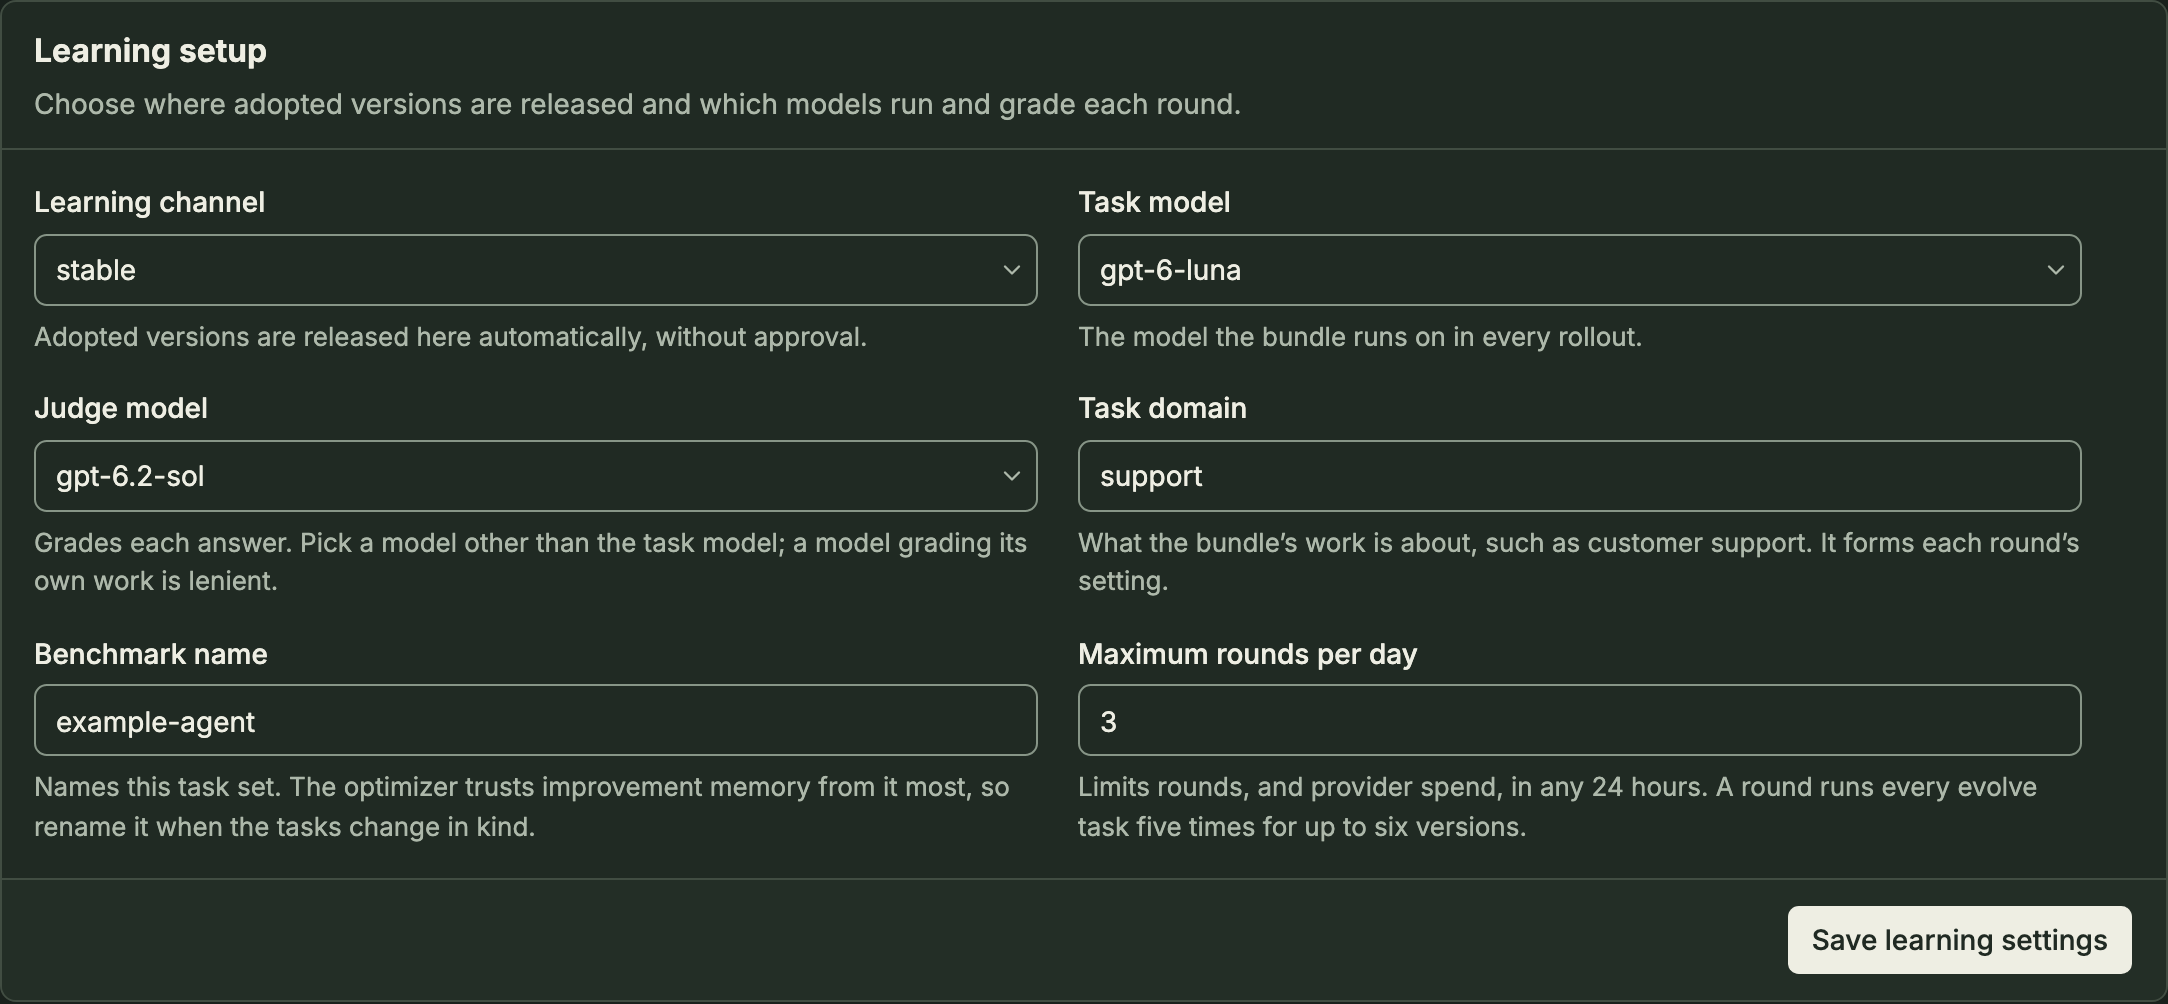
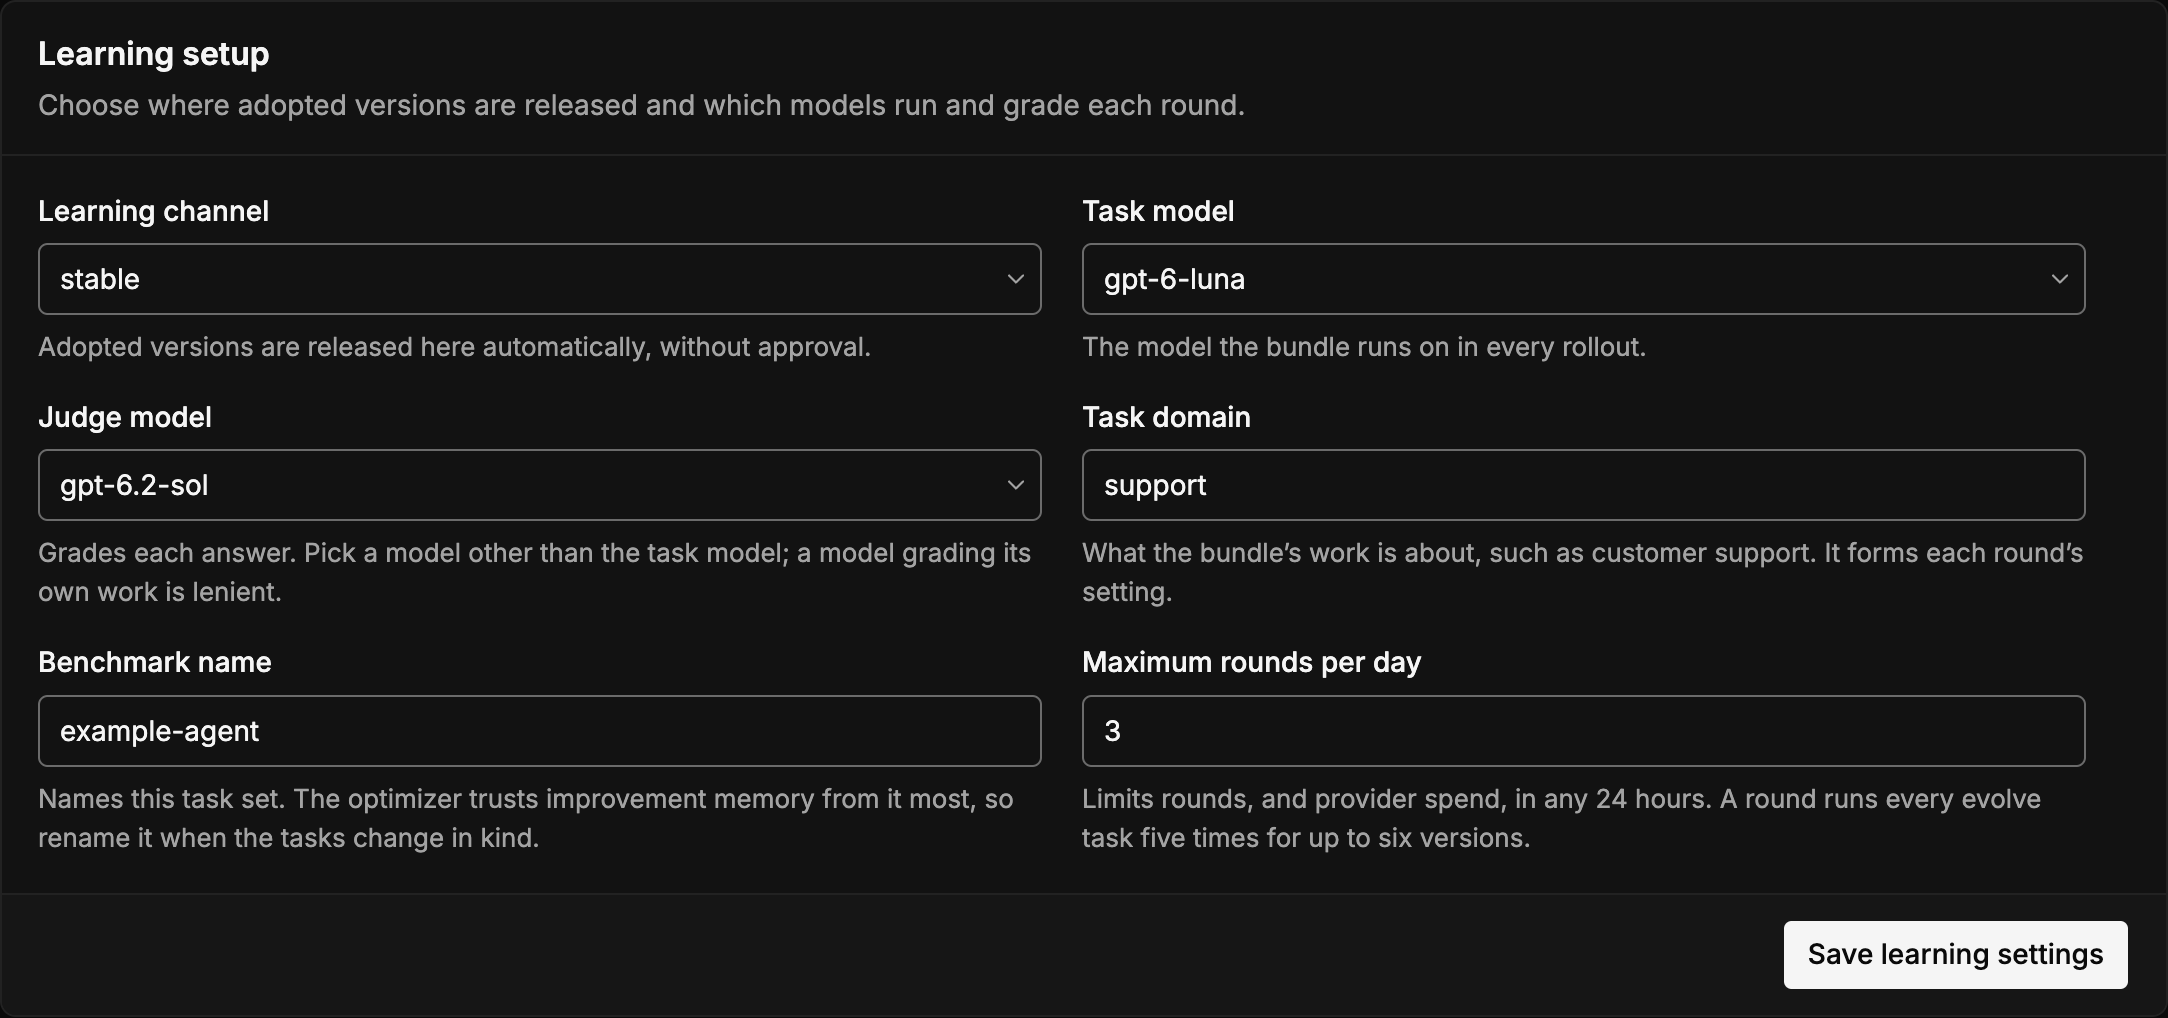
Update docs screenshots, README assets, and remove Paste conversations
Regenerate all 14 console doc screenshots in apps/docs/public/screenshots (light and dark) and the README hero climb screenshots and brand marks in .github/assets to reflect the Pure Swiss Precision UI and post-#41 copy.

Remove the Paste conversations textarea from the Import material panel (apps/console/src/components/learning-tasks.tsx, apps/console/src/lib/task-review.ts, apps/docs/content/docs/guides/learning-loop.mdx).

diff --git a/apps/console/src/components/learning-tasks.tsx b/apps/console/src/components/learning-tasks.tsx
@@ -38,8 +38,6 @@ import {
   linkedTask,
   needsConfirmation as awaitsConfirmation,
   pageSize,
-  pasteHelp,
-  pasteLabel,
   recheckQueued,
   recheckSummary,
   scoreText,
@@ -66,8 +64,6 @@ const codeBlock =
   'rounded-md border bg-muted/40 px-3 py-2 font-mono text-[13px] leading-relaxed whitespace-pre-wrap break-words';
 const sectionLabel = 'text-xs font-medium text-muted-foreground';
 const maxImportBytes = 64 * 1024 * 1024;
-const pastePlaceholder =
-  'Customer: Can I pause my subscription?\nAgent: Yes, for up to three months.\n---\nCustomer: How do I export my data?\nAgent: Open Settings, then Exports.';
 
 function admissionBadge(card: TaskCard): { label: string; tone: StatusTone } {
   if (awaitsConfirmation(card)) return { label: 'Needs your confirmation', tone: 'warning' };
@@ -513,18 +509,15 @@ function ImportMaterial({
           const form = e.currentTarget;
           const data = new FormData(form);
           const file = data.get('file') as File;
-          const paste = String(data.get('paste')).trim();
+          if (!file?.size) {
+            report('Choose a file to import.');
+            return;
+          }
           if (file.size > maxImportBytes) {
             report('Imports must fit in 64 MiB.');
             return;
           }
-          if (Boolean(file?.size) === Boolean(paste)) {
-            report('Choose a file or paste conversations, not both.');
-            return;
-          }
-          const format = file?.size
-            ? mediaTypes[file.name.split('.').at(-1)!.toLowerCase()]
-            : 'text/plain';
+          const format = mediaTypes[file.name.split('.').at(-1)!.toLowerCase()];
           if (!format) {
             report('Choose an XLSX, CSV, JSONL or text file.');
             return;
@@ -534,12 +527,12 @@ function ImportMaterial({
             report('');
             const params = new URLSearchParams({
               ...scope,
-              filename: file.size ? file.name : 'conversations.txt',
+              filename: file.name,
             });
             const response = await fetch('/learning-import?' + params, {
               method: 'POST',
               headers: { 'content-type': format },
-              body: file.size ? file : paste,
+              body: file,
             });
             if (!response.ok)
               throw Error(
@@ -568,15 +561,6 @@ function ImportMaterial({
             describedBy="learning-file-hint"
             fileName={fileName}
             onFileName={setFileName}
-          />
-        </Field>
-        <Field label={pasteLabel} htmlFor="learning-paste" hint={pasteHelp}>
-          <Textarea
-            id="learning-paste"
-            name="paste"
-            className="min-h-28 font-mono text-sm"
-            placeholder={pastePlaceholder}
-            aria-describedby="learning-paste-hint"
           />
         </Field>
       </form>

diff --git a/apps/console/src/lib/task-review.ts b/apps/console/src/lib/task-review.ts
@@ -118,6 +118,3 @@ export function describeImportReason(reason: string) {
 export function describeAdmissionReason(reason: string) {
   return describeLearning(reason);
 }
-
-export const pasteLabel = 'Paste conversations';
-export const pasteHelp = 'Put a line with only --- between conversations. Each one becomes a task.';

diff --git a/README.md b/README.md
@@ -14,9 +14,9 @@ Acclimate versions your AI agent's instructions, skills and memory, delivers eac
 [Documentation](https://acclimate.anveld.dev/docs) · [Quickstart](https://acclimate.anveld.dev/docs/get-started/quickstart) · [Self-host](https://acclimate.anveld.dev/docs/operate/self-host) · [Examples](examples/README.md) · [Changelog](CHANGELOG.md)
 
 [![CI](https://github.com/anveld-dev/acclimate/actions/workflows/ci.yaml/badge.svg?branch=main)](https://github.com/anveld-dev/acclimate/actions/workflows/ci.yaml)
-[![Release](https://img.shields.io/github/v/release/anveld-dev/acclimate?color=1f4a35)](https://github.com/anveld-dev/acclimate/releases/latest)
-[![License](https://img.shields.io/badge/license-Apache--2.0-1f4a35)](LICENSE)
-[![Docs](https://img.shields.io/badge/docs-acclimate.anveld.dev-1f4a35)](https://acclimate.anveld.dev)
+[![Release](https://img.shields.io/github/v/release/anveld-dev/acclimate?color=0a0a0a)](https://github.com/anveld-dev/acclimate/releases/latest)
+[![License](https://img.shields.io/badge/license-Apache--2.0-0a0a0a)](LICENSE)
+[![Docs](https://img.shields.io/badge/docs-acclimate.anveld.dev-0a0a0a)](https://acclimate.anveld.dev)
 
 </div>
 
@@ -25,7 +25,7 @@ Acclimate versions your AI agent's instructions, skills and memory, delivers eac
 <a href="examples/gear-returns/README.md">
   <picture>
     <source media="(prefers-color-scheme: dark)" srcset=".github/assets/climb-dark.png">
-    <img src=".github/assets/climb-light.png" alt="Bar chart of pass rate on 60 unseen test tasks: 48% at the start, then 58%, 77%, 97% and 97% after four batches of tasks, against a 35% baseline for always answering STORE_CREDIT. Beside it, the released instructions.md with the line the loop added in the last batch highlighted.">
+    <img src=".github/assets/climb-light.png" alt="Acclimate hero showing a measured Gear returns run climbing from 48% to 97% pass rate across four batches on 60 unseen tasks, beside the diffed instructions.md lines added by the learning loop.">
   </picture>
 </a>
 
